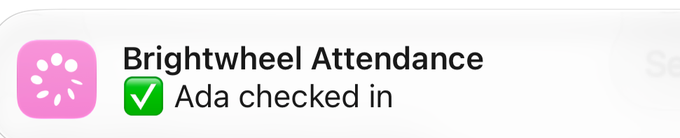
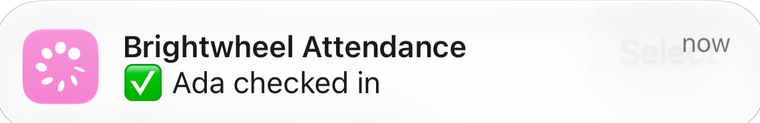
💄 style: take the page's colours from Brightwheel, and cut the words back further
Indigo, deep navy ink, white rounded panels on a lavender-white ground, and a friendly geometric sans in place of the serif — the palette and shape language of the app these shortcuts talk to, so the page looks like it belongs beside it. None of Brightwheel's own marks or artwork are used or imitated; the footer already disclaims any affiliation.

The requirements are three phrases with nothing underneath them. "One at a time" is gone from the setup step. The single "Get the shortcuts" button is now three links, one per file, pointing straight at the download rather than at a releases page a non-technical reader has to interpret.

The notification crops were cutting the card's right edge and its bottom, so the rounded corner was missing on one side and the page's own border-radius invented a new one. They are now cropped to the card's measured bounds.

Claude-Session: https://claude.ai/code/session_01YWMTHqFf6oXaW2NUCVGZAJ

diff --git a/docs/index.html b/docs/index.html
@@ -7,16 +7,17 @@
 <meta name="description" content="Effortless check-in: three iPhone shortcuts that check your kids in and out of Brightwheel by themselves, when you arrive at school.">
 <link rel="preconnect" href="https://fonts.googleapis.com">
 <link rel="preconnect" href="https://fonts.gstatic.com" crossorigin>
-<link href="https://fonts.googleapis.com/css2?family=Fraunces:opsz,wght,SOFT,WONK@9..144,400;9..144,600;9..144,700&family=Karla:wght@400;500;700&display=swap" rel="stylesheet">
+<link href="https://fonts.googleapis.com/css2?family=Outfit:wght@500;600;700&family=Nunito+Sans:opsz,wght@6..12,400;6..12,600;6..12,700&display=swap" rel="stylesheet">
 <style>
   :root {
-    --paper:  #e7edee;
-    --card:   #ffffff;
-    --ink:    #14252c;
-    --muted:  #55686f;
-    --in:     #1b6e4f;
-    --out:    #b0472f;
-    --rule:   #c8d5d7;
+    --paper:   #f5f6fb;
+    --card:    #ffffff;
+    --ink:     #1f1c46;
+    --muted:   #5c5f7a;
+    --brand:   #4f52d6;
+    --ok:      #2e9e5b;
+    --warn:    #d9542b;
+    --rule:    #e4e5f1;
     --measure: 34rem;
   }
 
@@ -26,7 +27,7 @@
     margin: 0;
     background: var(--paper);
     color: var(--ink);
-    font: 400 1.0625rem/1.6 Karla, "Helvetica Neue", Arial, sans-serif;
+    font: 400 1.0625rem/1.65 "Nunito Sans", "Helvetica Neue", Arial, sans-serif;
     -webkit-font-smoothing: antialiased;
   }
 
@@ -35,22 +36,21 @@
   .wrap { max-width: var(--measure); margin: 0 auto; padding-inline: 1.5rem; }
 
   h1, h2, h3 {
-    font-family: Fraunces, Georgia, "Times New Roman", serif;
-    font-variation-settings: "SOFT" 40, "WONK" 1;
-    line-height: 1.1;
+    font-family: Outfit, "Nunito Sans", "Helvetica Neue", Arial, sans-serif;
+    line-height: 1.12;
     margin: 0;
-    letter-spacing: -0.01em;
+    letter-spacing: -0.015em;
   }
-  h1 { font-weight: 700; font-size: clamp(2.4rem, 9vw, 3.5rem); }
-  h2 { font-weight: 600; font-size: clamp(1.45rem, 4.5vw, 1.8rem); }
-  h3 { font-weight: 600; font-size: 1.0625rem; font-variation-settings: "SOFT" 30, "WONK" 0; }
+  h1 { font-weight: 700; font-size: clamp(2.4rem, 9vw, 3.4rem); }
+  h2 { font-weight: 600; font-size: clamp(1.5rem, 4.5vw, 1.85rem); }
+  h3 { font-weight: 600; font-size: 1.125rem; }
 
   p { margin: 0 0 1rem; }
-  a { color: var(--in); text-underline-offset: 0.18em; text-decoration-thickness: 1px; }
-  a:focus-visible, .get:focus-visible {
-    outline: 2.5px solid var(--ink);
+  a { color: var(--brand); text-underline-offset: 0.18em; text-decoration-thickness: 1px; }
+  a:focus-visible {
+    outline: 2.5px solid var(--brand);
     outline-offset: 3px;
-    border-radius: 2px;
+    border-radius: 4px;
   }
 
   /* ---------- hero ---------- */
@@ -63,15 +63,15 @@
   }
 
   figure { margin: 0; }
-  .banners { margin-top: 2.5rem; display: grid; gap: 0.5rem; }
+  .banners { margin-top: 2.5rem; display: grid; gap: 0.55rem; }
   .banners img {
     width: 100%;
-    border-radius: 1.3rem;
-    box-shadow: 0 12px 28px -18px rgba(20, 37, 44, 0.55);
+    border-radius: 1.35rem;
+    box-shadow: 0 14px 32px -20px rgba(31, 28, 70, 0.5);
   }
 
   figcaption {
-    margin-top: 1.1rem;
+    margin-top: 1.15rem;
     color: var(--muted);
     font-size: 0.9375rem;
     max-width: 27rem;
@@ -88,91 +88,118 @@
   }
 
   /* ---------- sections ---------- */
-  section { padding-block: clamp(2.25rem, 7vw, 3.25rem); border-top: 1px solid var(--rule); }
-  section > .wrap > h2 { margin-bottom: 1.25rem; }
+  section { padding-block: clamp(2.25rem, 7vw, 3.25rem); }
+  section + section { padding-top: 0; }
+  section > .wrap > h2 { margin-bottom: 1.15rem; }
 
-  ul.needs { list-style: none; margin: 0; padding: 0; display: grid; gap: 0.85rem; }
-  ul.needs li { padding-left: 1.9rem; position: relative; }
+  .panel {
+    background: var(--card);
+    border-radius: 1.5rem;
+    padding: 1.6rem 1.75rem;
+    box-shadow: 0 10px 30px -24px rgba(31, 28, 70, 0.55);
+  }
+
+  ul.needs { list-style: none; margin: 0; padding: 0; display: grid; gap: 0.95rem; }
+  ul.needs li { padding-left: 2.2rem; position: relative; font-weight: 600; }
   ul.needs li::before {
     content: "";
-    position: absolute; left: 0; top: 0.44em;
-    width: 0.7rem; height: 0.7rem;
+    position: absolute; left: 0; top: 0.22em;
+    width: 1.35rem; height: 1.35rem;
     border-radius: 50%;
-    border: 2.5px solid var(--in);
+    background: var(--ok);
   }
-  ul.needs small { display: block; color: var(--muted); font-size: 0.9375rem; }
+  ul.needs li::after {
+    content: "";
+    position: absolute; left: 0.38rem; top: 0.5em;
+    width: 0.58rem; height: 0.3rem;
+    border-left: 2.5px solid #fff;
+    border-bottom: 2.5px solid #fff;
+    transform: rotate(-45deg);
+  }
 
   ol.steps { list-style: none; margin: 0; padding: 0; counter-reset: step; }
   ol.steps > li {
     counter-increment: step;
     position: relative;
-    padding-left: 2.75rem;
-    padding-bottom: 2rem;
+    padding-left: 3rem;
+    padding-bottom: 2.1rem;
   }
   ol.steps > li::before {
     content: counter(step);
-    position: absolute; left: 0; top: -0.1em;
-    width: 1.85rem; height: 1.85rem;
+    position: absolute; left: 0; top: -0.15em;
+    width: 2rem; height: 2rem;
     border-radius: 50%;
-    background: var(--ink); color: var(--paper);
-    font-family: Fraunces, Georgia, serif;
-    font-weight: 600; font-size: 0.9375rem;
+    background: var(--brand); color: #fff;
+    font-family: Outfit, sans-serif;
+    font-weight: 600; font-size: 1rem;
     display: grid; place-items: center;
   }
   ol.steps > li::after {
     content: "";
-    position: absolute; left: 0.9rem; top: 2.15rem; bottom: 0.35rem;
-    border-left: 1px solid var(--rule);
+    position: absolute; left: 0.97rem; top: 2.35rem; bottom: 0.35rem;
+    border-left: 2px solid var(--rule);
   }
   ol.steps > li:last-child { padding-bottom: 0; }
   ol.steps > li:last-child::after { display: none; }
-  ol.steps h3 { margin-bottom: 0.3rem; }
+  ol.steps h3 { margin-bottom: 0.35rem; }
   ol.steps p { color: var(--muted); }
   ol.steps p:last-child { margin-bottom: 0; }
+
+  ul.downloads { list-style: none; margin: 0.9rem 0 1rem; padding: 0; display: grid; gap: 0.5rem; }
+  ul.downloads a {
+    display: flex; align-items: center; gap: 0.75rem;
+    background: var(--card);
+    border: 2px solid var(--rule);
+    border-radius: 0.95rem;
+    padding: 0.8rem 1rem;
+    font-weight: 700;
+    color: var(--ink);
+    text-decoration: none;
+  }
+  ul.downloads a::before {
+    content: "";
+    flex: none;
+    width: 0.8rem; height: 0.8rem;
+    border: 2.5px solid var(--brand);
+    border-top: 0; border-left: 0;
+    transform: rotate(45deg) translate(-0.15rem, -0.15rem);
+  }
+  ul.downloads a:hover { border-color: var(--brand); }
 
   .shot {
     width: min(15rem, 100%);
     margin: 1.15rem 0 0.4rem;
-    border-radius: 1.1rem;
+    border-radius: 1.4rem;
     border: 1px solid var(--rule);
-    box-shadow: 0 14px 30px -22px rgba(20, 37, 44, 0.7);
+    box-shadow: 0 16px 34px -24px rgba(31, 28, 70, 0.7);
   }
-
-  .get {
-    display: inline-block;
-    margin: 0.35rem 0 0.9rem;
-    background: var(--in); color: #fff;
-    font-weight: 700; font-size: 1rem;
-    text-decoration: none;
-    padding: 0.7rem 1.3rem;
-    border-radius: 0.55rem;
-  }
-  .get:hover { background: #175d43; }
 
   .flag {
-    border-left: 3px solid var(--out);
-    padding: 0.15rem 0 0.15rem 1rem;
-    margin: 1rem 0;
+    background: var(--card);
+    border-left: 4px solid var(--warn);
+    border-radius: 0.35rem 1rem 1rem 0.35rem;
+    padding: 0.9rem 1.1rem;
+    margin: 1.1rem 0;
   }
-  .flag p { color: var(--ink); margin-bottom: 0.4rem; }
+  .flag p { color: var(--ink); margin-bottom: 0.35rem; }
   .flag p:last-child { margin-bottom: 0; color: var(--muted); font-size: 0.9375rem; }
-  .flag b { color: var(--out); }        /* the button to tap, and nothing else */
+  .flag b { color: var(--warn); }        /* the button to tap, and nothing else */
   .flag strong { font-weight: 700; }
 
-  dl.trust { margin: 0; display: grid; gap: 1.15rem; }
+  dl.trust { margin: 0; display: grid; gap: 1.2rem; }
   dl.trust dt { font-weight: 700; margin-bottom: 0.1rem; }
   dl.trust dd { margin: 0; color: var(--muted); }
 
   footer {
-    border-top: 1px solid var(--rule);
-    padding-block: 2.25rem 3.5rem;
+    padding-block: 2.5rem 3.5rem;
     color: var(--muted);
     font-size: 0.9375rem;
   }
   footer p { margin-bottom: 0.6rem; }
 
   @media (max-width: 26rem) {
-    ol.steps > li { padding-left: 2.4rem; }
+    ol.steps > li { padding-left: 2.6rem; }
+    .panel { padding: 1.35rem 1.25rem; }
   }
 </style>
 </head>
@@ -186,9 +213,9 @@
 
     <figure>
       <div class="banners">
-        <img src="img/notif-ada.png" width="680" height="138"
+        <img src="img/notif-ada.png" width="760" height="123"
              alt="iPhone notification from Brightwheel Attendance reading: Ada checked in">
-        <img src="img/notif-milo.png" width="680" height="138"
+        <img src="img/notif-milo.png" width="760" height="123"
              alt="iPhone notification from Brightwheel Attendance reading: Milo checked in">
       </div>
       <figcaption>One notification per child, before you reach the door.</figcaption>
@@ -199,14 +226,13 @@
 <section>
   <div class="wrap">
     <h2>Requirements</h2>
-    <ul class="needs">
-      <li>An iPhone running iOS 27
-        <small>Settings → General → About → Software Version</small></li>
-      <li>A Brightwheel login
-        <small>The email and password you use in the app</small></li>
-      <li>Your 4-digit check-in code
-        <small>The one you tap on the school's iPad</small></li>
-    </ul>
+    <div class="panel">
+      <ul class="needs">
+        <li>An iPhone running iOS 27</li>
+        <li>A Brightwheel login</li>
+        <li>Your 4-digit check-in code</li>
+      </ul>
+    </div>
   </div>
 </section>
 
@@ -215,10 +241,13 @@
     <h2>Setup</h2>
     <ol class="steps">
       <li>
-        <h3>Download all three files</h3>
-        <a class="get" href="https://github.com/steverice/brightwheel-checkin/releases/latest">Get the shortcuts</a>
-        <p>Tap each file ending in <b>.shortcut</b>, then tap Download. Skip the
-          <b>.zip</b>.</p>
+        <h3>Download all three</h3>
+        <ul class="downloads">
+          <li><a href="https://github.com/steverice/brightwheel-checkin/releases/latest/download/Brightwheel%20Attendance.shortcut">Brightwheel Attendance</a></li>
+          <li><a href="https://github.com/steverice/brightwheel-checkin/releases/latest/download/Brightwheel%20Check%20In.shortcut">Brightwheel Check In</a></li>
+          <li><a href="https://github.com/steverice/brightwheel-checkin/releases/latest/download/Brightwheel%20Check%20Out.shortcut">Brightwheel Check Out</a></li>
+        </ul>
+        <p>Tap each one, then tap Download.</p>
       </li>
       <li>
         <h3>Open them in the Files app</h3>
@@ -227,7 +256,7 @@
       </li>
       <li>
         <h3>Answer three questions</h3>
-        <p>Your email, your password, your 4-digit code. One at a time.</p>
+        <p>Your email, your password, your 4-digit code.</p>
         <img class="shot" src="img/skip-setup.png" width="620" height="1301"
              alt="The Configure This Shortcut screen, showing an Add Shortcut button above a Skip Setup button">
         <div class="flag">
@@ -262,24 +291,26 @@
 <section>
   <div class="wrap">
     <h2>What it knows about you</h2>
-    <dl class="trust">
-      <dt>Your password stays on your phone</dt>
-      <dd>Stored inside the shortcut, sent only to Brightwheel to sign in.</dd>
+    <div class="panel">
+      <dl class="trust">
+        <dt>Your password stays on your phone</dt>
+        <dd>Stored inside the shortcut, sent only to Brightwheel to sign in.</dd>
 
-      <dt>The download holds nothing about your family</dt>
-      <dd>Everyone downloads the same file. It asks Brightwheel who your children
-        are every time it runs, so a new sibling or a room change needs nothing
-        from you.</dd>
+        <dt>The download holds nothing about your family</dt>
+        <dd>Everyone downloads the same file. It asks Brightwheel who your
+          children are every time it runs, so a new sibling or a room change
+          needs nothing from you.</dd>
 
-      <dt>Apple signed the file</dt>
-      <dd>Which is why your iPhone opens it without warning you about where it
-        came from.</dd>
+        <dt>Apple signed the file</dt>
+        <dd>Which is why your iPhone opens it without warning you about where it
+          came from.</dd>
 
-      <dt>It stops rather than guessing</dt>
-      <dd>If it cannot tell who your children are, or one turns up in two rooms,
-        it sends nothing and says so. A half-finished check-in is worse than
-        none, because you would believe it worked.</dd>
-    </dl>
+        <dt>It stops rather than guessing</dt>
+        <dd>If it cannot tell who your children are, or one turns up in two
+          rooms, it sends nothing and says so. A half-finished check-in is worse
+          than none, because you would believe it worked.</dd>
+      </dl>
+    </div>
   </div>
 </section>
 
